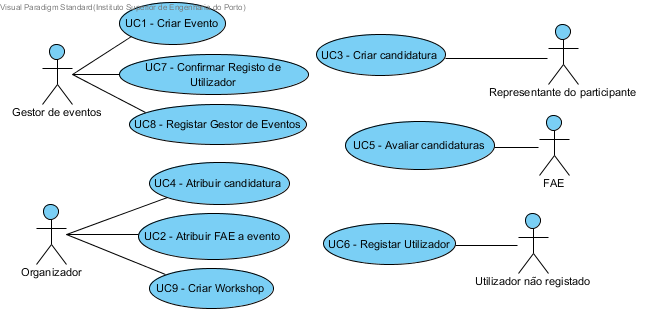
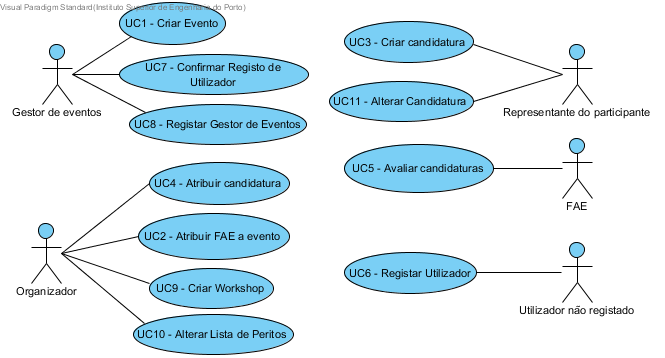
Reformulação do diagrama de casos de uso

diff --git a/Iteração 3/Engenharia de Requisito/Casos De Uso.md b/Iteração 3/Engenharia de Requisito/Casos De Uso.md
@@ -14,5 +14,5 @@
 * [UC7 - Confirmar Registo de Utilizador](Casos/UC7 - Confirmar Registo de Utilizador)
 * [UC8 - Registar Gestor de Eventos](Casos/UC8 - Registar gestor de eventos)
 * [UC9 - Criar Workshop](Casos/UC9 - Criar workshop)
-* [UC10 - Alterar Lista de Peritos](Design/UC10 - Alterar Lista de Peritos)
-* [UC11 - Alterar Candidatura](Design/UC11 - Alterar Candidatura)
+* [UC10 - Alterar Lista de Peritos](Casos/UC10 - Alterar Lista de Peritos)
+* [UC11 - Alterar Candidatura](Casos/UC11 - Alterar Candidatura)

diff --git a/Iteração 3/Home.md b/Iteração 3/Home.md
@@ -1,4 +1,4 @@
-# Iteração 2
+# Iteração 3
 
  * [Enunciado (PT-PT)](Enunciado PT-PT)
  * [Paper (EN-UK)](Paper EN-UK)
